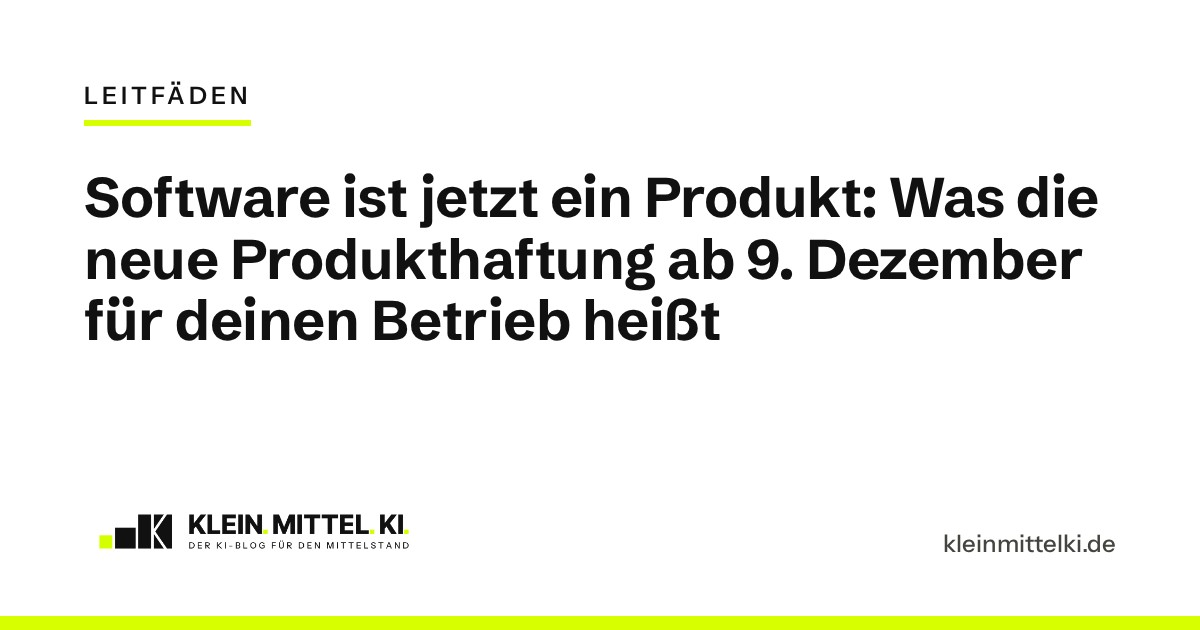
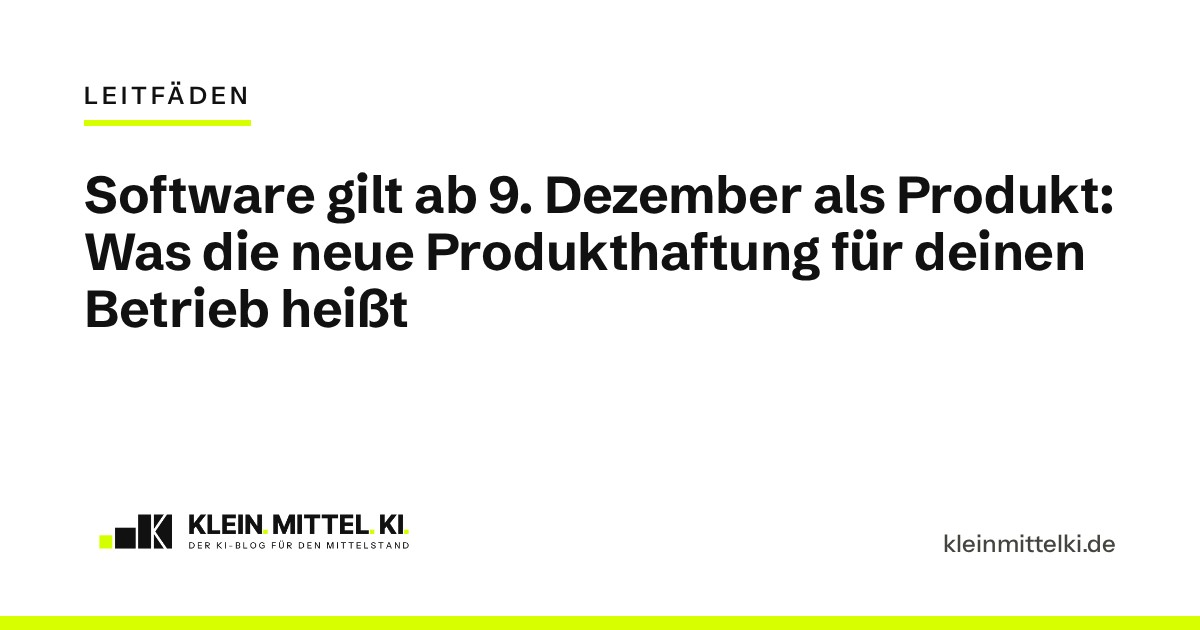
eu-produkthaftung-software-ki: Überarbeitung nach Prüfung Runde 1, neues Vorschaubild
Claude-Session: https://claude.ai/code/session_0145MfsbmvT2a6DtcLU6H3Pk

Changed region(s): [[0.0617, 0.2714, 0.925, 0.5429]]

diff --git a/entwuerfe/eu-produkthaftung-software-ki/beitrag.md b/entwuerfe/eu-produkthaftung-software-ki/beitrag.md
@@ -1,53 +1,44 @@
 ---
-titel: "Software ist jetzt ein Produkt: Was die neue Produkthaftung ab 9. Dezember für deinen Betrieb heißt"
+titel: "Software gilt ab 9. Dezember als Produkt: Was die neue Produkthaftung für deinen Betrieb heißt"
 slug: eu-produkthaftung-software-ki
 kategorie: Leitfäden
 tags: [#wissen]
-teaser: Ab 9. Dezember haften Hersteller auch für fehlerhafte Software, Updates und KI-Funktionen. Wen das trifft und was du jetzt prüfen kannst.
+teaser: Hersteller haften künftig auch für fehlerhafte Software, Updates und KI-Funktionen. Wen das trifft und was du vor dem Stichtag prüfen kannst.
 vorschaubild: vorschaubild.png
 titelbild: titel-eu-produkthaftung-software-ki.jpg
 ---
 
-INTERN – vor Veröffentlichung entfernen: Till hat zu diesem Thema keine Einschätzung geliefert. Alles Folgende ist Vorschlag der Redaktion, bitte ersetzen oder freigeben: (1) Die Einstiegsszene (Maschinenbauer mit 60 Leuten, KI-Kamera, Fernwartungs-Update) ist ein ausgedachtes Beispiel, kein echter Fall; sie wird im Abschnitt zu Updates wieder aufgegriffen („Für den Maschinenbauer aus dem Einstieg …“). (2) Die vier Fälle unter „Wer betroffen ist“ (Maschinenbauer, Elektrobetrieb mit App, Softwarehaus, Betrieb mit eingebautem KI-Modell) sind Beispiele der Redaktion. (3) Auslegungen der Redaktion, die so nicht wörtlich im Gesetz stehen: „Eher nicht betroffen ist nach dem Wortlaut, wer …“ (abgeleitet aus § 3), „Für ein Softwarehaus mit reiner Bürosoftware … ist das Risiko … kleiner“ (abgeleitet aus § 1), der Grenzfall „großes Update an Altprodukt“ (Erwägungsgrund 40, § 23 schweigt) und der Hinweis zu Eigenentwicklungen (§ 6 Abs. 3). (4) Die Checkliste ist aus dem Gesetzestext zusammengestellt, keine Rechtsberatung. (5) Ich-Form, komplett Vorschlag: der Absatz ab „Ich lese das Gesetz weniger als neue Pflicht …“ in „Was das für den Mittelstand bedeutet“. Quellenstand 20.11.2026: Gesetz verkündet (BGBl. 2026 I Nr. 321 vom 27.10.2026), Richtlinie vollständig im amtlichen Text gelesen; Kanzlei- und IHK-Texte nur als Wegweiser, nicht zitiert. Länge rund 1.980 Wörter, am oberen Rand des Langtext-Rahmens (1.900–2.000); falls zu lang (deine Rückmeldung vom 25.10.: „generell viel zu lange“), lassen sich „Wenn es vor Gericht geht“ und die vier Fallbeispiele kürzen. Zwei Grafiken statt vier bis fünf.
+INTERN – vor Veröffentlichung entfernen: Überarbeitet nach Prüfung Runde 1. Till hat zu diesem Thema keine Einschätzung geliefert. Alles Folgende ist Vorschlag der Redaktion, bitte ersetzen oder freigeben: (1) Die Einstiegsszene (Maschinenbauer mit 60 Leuten, KI-Kamera, Fernwartungs-Update) ist ausgedacht, kein echter Fall. Sie wird im Abschnitt zu Updates wieder aufgegriffen; Softwarehaus mit Bürosoftware bzw. Cloud-Angebot sind ebenfalls Beispiele der Redaktion. Die vier ausführlichen Fallbeispiele sind auf Wunsch des Prüfers gestrichen, geblieben ist das Motor-Bild. (2) Auslegungen der Redaktion, die so nicht wörtlich im Gesetz stehen: „Wer gekaufte Standard-Software … nur im eigenen Betrieb nutzt, ist nach dem Wortlaut von § 3 nicht Hersteller“ (auch Punkt 2 der 30-Sekunden-Box und letzte Zeile der Karte); „Für ein Softwarehaus mit reiner Bürosoftware … ist das Risiko … kleiner“ (abgeleitet aus § 1); der Grenzfall „großes Update an Altprodukt“ (Erwägungsgrund 40, § 23 schweigt); Eigenentwicklungen (§ 6 Abs. 3, in der Karte); „etwa ein eingebautes KI-Modell“ als Komponente (§ 4 Abs. 2 nennt nicht körperliche Gegenstände, KI-Systeme sind laut Erwägungsgrund 13 Software); „Hätte er ein Sicherheitsupdate bereitgestellt und der Kunde es nicht eingespielt, läge das … außerhalb seiner Kontrolle“ (abgeleitet aus Erwägungsgrund 51; Erwägungsgründe erläutern die Richtlinie, sie sind kein Gesetzestext). (3) Die Checkliste ist aus dem Gesetzestext zusammengestellt, keine Rechtsberatung. (4) Ich-Form, komplett Vorschlag: der Absatz ab „Für mich passt das Gesetz die Haftung an die Wirklichkeit an …“. Bewusst nicht mit der Formel „Ich lese … weniger als …, sondern als …“, die schon im OLG-Hamm-Beitrag steht; bitte trotzdem in deinen Worten prüfen. (5) Nur zwei Grafiken statt drei bis fünf beim Langtext: Das folgt dem Muster „Leitfaden Rechtslage“ (zwei Karten, Vorbild AI-Act-Beitrag) und deinem Kürzungswunsch vom 25.10. („generell viel zu lange“). Bitte entscheiden, ob das so passt; weitere Grafiken sind nicht gebaut. Quellenstand 20.11.2026: Gesetz verkündet (BGBl. 2026 I Nr. 321 vom 27.10.2026), Richtlinie und KMU-Empfehlung 2003/361/EG im amtlichen Text gelesen; Kanzlei- und IHK-Texte nur als Wegweiser, nicht zitiert. Länge: rund 1.400 Wörter Fließtext (vorher rund 1.880) plus 30-Sekunden-Box und Karte. Titel geändert, deshalb muss das Vorschaubild neu gerendert werden.
 
 Stell dir einen Maschinenbauer mit 60 Leuten vor, der Verpackungsmaschinen für Lebensmittelbetriebe baut. Die Steuerung ist eigene Software. Eine Kamera mit KI-Bilderkennung stoppt die Maschine, sobald eine Hand in den Gefahrenbereich greift. Updates spielt der Betrieb per Fernwartung auf. Im Frühjahr 2027 liefert er eine neue Maschine aus. Ein halbes Jahr später bringt ein Update einen Fehler in die Erkennung, und eine Mitarbeiterin des Kunden verletzt sich. Wer haftet, und wofür genau?
 
-Ab dem 9. Dezember 2026 gibt es darauf eine neue Antwort. Dann gilt in Deutschland ein neues Produkthaftungsgesetz. Es setzt eine EU-Richtlinie um und nennt Software erstmals ausdrücklich als Produkt. Das Gesetz ist beschlossen und im Bundesgesetzblatt verkündet. Dieser Beitrag erklärt, was sich ändert, wen es trifft und was eine Geschäftsführung jetzt prüfen kann.
+Ab dem 9. Dezember 2026 gibt es darauf eine neue Antwort. Dann gilt in Deutschland ein neues Produkthaftungsgesetz, das Software erstmals ausdrücklich als Produkt nennt. Was ändert sich, wen trifft es, und was sollte eine Geschäftsführung jetzt prüfen?
 
 ```html
-<div class="kmk-kurz" style="border:2px solid #111;border-left:10px solid #D7FF00;padding:18px 22px;margin:28px 0;background:#fff;color:#111"><p style="margin:0 0 12px;font-weight:700;font-size:13px;letter-spacing:3px;text-transform:uppercase;line-height:1.3">Das Wichtigste in 30 Sekunden</p><ul style="margin:0;padding-left:20px;display:grid;gap:8px;line-height:1.5"><li style="margin:0">Ab dem 9. Dezember 2026 ist Software ausdrücklich ein Produkt, egal ob sie auf dem Gerät läuft, als App kommt oder aus der Cloud. KI-Systeme zählen dazu.</li><li style="margin:0">Betroffen sind vor allem Betriebe, die Software entwickeln, in eigene Produkte einbauen oder unter eigenem Namen anbieten. Wer Standard-Software nur nutzt, ist nach dem Wortlaut nicht Hersteller.</li><li style="margin:0">Die Verantwortung endet nicht mit der Auslieferung: Solange du Updates liefern kannst, zählen fehlerhafte Updates und fehlende Sicherheitsupdates mit.</li><li style="margin:0">Für Produkte, die bis einschließlich 8. Dezember 2026 in Verkehr gebracht wurden, gilt das alte Gesetz weiter.</li><li style="margin:0">Jetzt sinnvoll: Produkte mit Software auflisten, Update-Wege klären, Verträge mit Zulieferern und die Versicherung prüfen lassen.</li></ul></div>
+<div class="kmk-kurz" style="border:2px solid #111;border-left:10px solid #D7FF00;padding:18px 22px;margin:28px 0;background:#fff;color:#111"><p style="margin:0 0 12px;font-weight:700;font-size:13px;letter-spacing:3px;text-transform:uppercase;line-height:1.3">Das Wichtigste in 30 Sekunden</p><ul style="margin:0;padding-left:20px;display:grid;gap:8px;line-height:1.5"><li style="margin:0">Ab dem 9. Dezember 2026 gilt Software ausdrücklich als Produkt, egal ob sie auf dem Gerät läuft, als App kommt oder aus der Cloud. KI-Systeme zählen dazu.</li><li style="margin:0">Betroffen sind vor allem Betriebe, die Software entwickeln, in eigene Produkte einbauen oder unter eigenem Namen anbieten. Wer Standard-Software nur nutzt, ist nach dem Wortlaut nicht Hersteller.</li><li style="margin:0">Die Verantwortung endet nicht mit der Auslieferung: Solange du Updates liefern kannst, zählen fehlerhafte Updates und fehlende Sicherheitsupdates mit.</li><li style="margin:0">Für Produkte, die bis einschließlich 8. Dezember 2026 in Verkehr gebracht wurden, gilt das alte Gesetz weiter.</li><li style="margin:0">Jetzt sinnvoll: Produkte mit Software auflisten, Update-Wege klären, Verträge mit Zulieferern und die Versicherung prüfen lassen.</li></ul></div>
 ```
 
 ## Was sich am 9. Dezember ändert
 
-Grundlage ist die [EU-Richtlinie 2024/2853](https://eur-lex.europa.eu/eli/dir/2024/2853/oj/deu) über die Haftung für fehlerhafte Produkte vom 23. Oktober 2024. Die Mitgliedstaaten mussten sie bis zum 9. Dezember 2026 umsetzen (Art. 22). Deutschland hat das mit dem [Gesetz zur Modernisierung des Produkthaftungsrechts](https://www.recht.bund.de/eli/bund/bgbl-1/2026/321) getan. Der Bundestag hat es am 8. Oktober 2026 beschlossen, der Bundesrat hat am 16. Oktober darauf verzichtet, den Vermittlungsausschuss anzurufen. Verkündet wurde es am 27. Oktober 2026 im Bundesgesetzblatt (BGBl. 2026 I Nr. 321). Das neue Produkthaftungsgesetz tritt am 9. Dezember 2026 in Kraft, das alte von 1989 am selben Tag außer Kraft.
+Grundlage ist die [EU-Richtlinie 2024/2853](https://eur-lex.europa.eu/eli/dir/2024/2853/oj/deu) über die Haftung für fehlerhafte Produkte vom 23. Oktober 2024. Deutschland setzt sie mit dem [Gesetz zur Modernisierung des Produkthaftungsrechts](https://www.recht.bund.de/eli/bund/bgbl-1/2026/321) um, verkündet am 27. Oktober 2026 (BGBl. 2026 I Nr. 321), in Kraft ab 9. Dezember 2026. Es löst das Produkthaftungsgesetz von 1989 ab (BGBl. 1989 I S. 2198).
 
-Produkthaftung heißt: Der Hersteller haftet für Schäden durch ein fehlerhaftes Produkt, ohne dass ihm ein Verschulden nachgewiesen werden muss. Die Richtlinie nennt das verschuldensunabhängige Haftung (Erwägungsgrund 6). Fehlerhaft ist ein Produkt, wenn es nicht die Sicherheit bietet, die vorgeschrieben ist oder die man erwarten darf (§ 7). Drei Änderungen sind für Betriebe mit Software besonders wichtig.
+Produkthaftung heißt: Der Hersteller haftet für Schäden durch ein fehlerhaftes Produkt, ohne dass ihm ein Verschulden nachgewiesen werden muss (Erwägungsgrund 6 der Richtlinie). Fehlerhaft ist ein Produkt, wenn es nicht die Sicherheit bietet, die vorgeschrieben ist oder die man erwarten darf (§ 7).
 
-**Software ist ein Produkt.** Das alte Gesetz sprach von beweglichen Sachen und Elektrizität. Das neue nennt Software ausdrücklich (§ 2 Abs. 1 Nr. 3). Laut Richtlinie gilt das unabhängig davon, ob die Software auf einem Gerät gespeichert ist, aus der Cloud abgerufen oder als Software-as-a-Service bereitgestellt wird. Als Beispiele nennt sie Betriebssysteme, Firmware, Anwendungen und KI-Systeme (Erwägungsgrund 13). Das Wort „KI“ selbst steht im deutschen Gesetz nicht.
+**Software ist ein Produkt.** Das alte Gesetz sprach von beweglichen Sachen und Elektrizität, das neue nennt Software ausdrücklich (§ 2 Abs. 1 Nr. 3). Laut Richtlinie gilt das unabhängig davon, ob die Software auf einem Gerät läuft, aus der Cloud kommt oder als Software-as-a-Service gemietet wird. Als Beispiele nennt sie Betriebssysteme, Firmware, Anwendungen und KI-Systeme (Erwägungsgrund 13). Das Wort „KI“ steht im deutschen Gesetz nicht. Es berücksichtigt aber ausdrücklich, dass ein Produkt nach der Auslieferung weiterlernen oder neue Funktionen erwerben kann (§ 7 Nr. 3).
 
-**Lernende Systeme zählen mit.** Bei der Frage, ob ein Produkt fehlerhaft ist, wird ausdrücklich berücksichtigt, dass es nach der Auslieferung weiterlernen oder neue Funktionen erwerben kann (§ 7 Nr. 3). Auch Anforderungen an die Cybersicherheit gehören zur Sicherheit (§ 7 Nr. 5).
+**Keine Obergrenze, keine Selbstbeteiligung mehr.** Bisher haftete ein Hersteller für Personenschäden durch ein Produkt oder gleiche Produkte mit demselben Fehler insgesamt nur bis 85 Millionen Euro. Bei Sachschäden trug der Geschädigte die ersten 500 Euro selbst (§§ 10 und 11 des alten Gesetzes). Beides fehlt im neuen Gesetz. Die Richtlinie schließt finanzielle Obergrenzen ausdrücklich aus (Erwägungsgrund 56).
 
-**Keine Obergrenze, keine Selbstbeteiligung mehr.** Bisher war die Haftung für Personenschäden auf 85 Millionen Euro begrenzt, und bei Sachschäden trug der Geschädigte die ersten 500 Euro selbst (§§ 10 und 11 des alten Gesetzes). Beides fehlt im neuen Gesetz. Die Richtlinie schließt finanzielle Obergrenzen ausdrücklich aus (Erwägungsgrund 56).
-
-Ausgenommen ist freie und Open-Source-Software, die außerhalb einer Geschäftstätigkeit entwickelt oder bereitgestellt wird (§ 2 Abs. 1 Nr. 3). Die Ausnahme schützt die Entwickler solcher Software, nicht den Betrieb, der sie einbaut. Wer eine solche Bibliothek in sein Produkt integriert, haftet für sein Produkt selbst (§ 4 Abs. 1, Erwägungsgrund 15).
+**Open Source nur zum Teil ausgenommen.** Freie und Open-Source-Software, die außerhalb einer Geschäftstätigkeit entwickelt oder bereitgestellt wird, ist ausgenommen (§ 2 Abs. 1 Nr. 3). Wer sie in sein Produkt einbaut, haftet trotzdem für sein Produkt (§ 4 Abs. 1, Erwägungsgrund 15).
 
 ## Wer betroffen ist und wer eher nicht
 
-Haften muss in erster Linie der **Hersteller**: wer ein Produkt selbst entwickelt oder herstellt, es entwerfen oder herstellen lässt oder seinen Namen oder seine Marke daraufsetzt (§ 3). Dazu kommen die Hersteller von Komponenten. Baut ein Betrieb eine fremde Komponente ein und verursacht diese den Fehler, haften beide (§ 4 Abs. 1), und zwar als Gesamtschuldner (§ 15). Komponente kann auch Software sein oder ein digitaler Dienst, ohne den das Produkt eine Funktion nicht ausführen kann (§ 4 Abs. 2). Sitzt der Hersteller außerhalb der EU, haften Importeur und Beauftragter wie der Hersteller (§ 10).
+Haften muss in erster Linie der **Hersteller**: wer ein Produkt selbst entwickelt oder herstellt, es entwerfen oder herstellen lässt oder seinen Namen oder seine Marke daraufsetzt (§ 3). Baut ein Betrieb eine fremde Komponente ein und verursacht diese den Fehler, haften beide (§ 4 Abs. 1), und zwar als Gesamtschuldner (§ 15). Komponente kann auch Software sein, etwa ein eingebautes KI-Modell, oder ein digitaler Dienst, ohne den das Produkt eine Funktion nicht ausführen kann (§ 4 Abs. 2). Im Bild aus dem Beitrag [ChatGPT ist nicht das KI-Modell](https://www.kleinmittelki.de/chatgpt-claude-gemini-ki-modelle-erklaert/): Wer einen fremden Motor in sein Fahrzeug baut, steht gegenüber Geschädigten für das ganze Fahrzeug ein.
 
-Was das im Mittelstand heißen kann, zeigen vier typische Fälle:
+Das Gesetz schützt **natürliche Personen**. Ersetzt werden Schäden an Leben, Körper und Gesundheit, an Sachen und an Daten, außer an Sachen, die ausschließlich beruflich genutzt werden, und an Daten, die beruflich genutzt werden (§ 1 Abs. 1). Für ein Softwarehaus mit reiner Bürosoftware für Firmenkunden ist das Risiko aus diesem Gesetz deshalb kleiner als für einen Maschinenbauer. Verletzt sich aber ein Mensch, zählt das immer, auch wenn er bei einem Firmenkunden arbeitet. Die Haftung aus Verträgen bleibt ohnehin bestehen (§ 21 Abs. 2).
 
-- **Maschinen- und Anlagenbauer** mit eigener Steuerungssoftware, Fernwartung oder Bedien-App. Hier liegt das Thema am nächsten, weil ein Fehler Menschen verletzen kann.
-- **Ein Elektrobetrieb mit 25 Leuten**, der für seine Kunden eine eigene App zur Steuerung von Heizung und Rollläden programmiert hat. Die App ist ein Produkt, der Betrieb ihr Hersteller.
-- **Ein Softwarehaus mit 10 bis 50 Beschäftigten**, das Anwendungen unter eigenem Namen verkauft oder als Cloud-Dienst vermietet.
-- **Ein Betrieb, der ein KI-Modell eines großen Anbieters in sein eigenes Produkt einbaut**, etwa als Funktion einer Maschine oder einer Kunden-App. Das Modell ist dann eine Komponente. Im Bild aus dem Beitrag [ChatGPT ist nicht das KI-Modell](https://www.kleinmittelki.de/chatgpt-claude-gemini-ki-modelle-erklaert/): Wer einen fremden Motor in sein Fahrzeug baut, steht gegenüber Geschädigten für das ganze Fahrzeug ein.
+**Eher nicht betroffen** ist, wer gekaufte Standard-Software oder einen KI-Dienst wie Microsoft 365 oder ChatGPT nur im eigenen Betrieb nutzt: Nach dem Wortlaut von § 3 ist er nicht Hersteller. Die Ausnahmen, etwa eine wesentliche Veränderung oder eine Eigenentwicklung, zeigt die Übersicht.
 
-Wichtig für die Einordnung: Das Gesetz schützt **natürliche Personen**. Ersetzt werden Schäden an Leben, Körper und Gesundheit, an Sachen und an Daten, außer an Sachen, die ausschließlich beruflich genutzt werden, und an Daten, die beruflich genutzt werden (§ 1 Abs. 1). Für ein Softwarehaus mit reiner Bürosoftware für Firmenkunden ist das Risiko aus diesem Gesetz deshalb kleiner als für einen Maschinenbauer. Verletzt sich aber ein Mensch, zählt das immer, auch wenn er bei einem Firmenkunden arbeitet. Die Haftung aus Verträgen bleibt ohnehin bestehen (§ 21 Abs. 2).
-
-**Eher nicht betroffen** ist nach dem Wortlaut, wer gekaufte Standard-Software oder einen KI-Dienst nur im eigenen Betrieb nutzt, etwa Microsoft 365 oder ChatGPT im Büro. Wer nichts entwickelt und nichts herstellen lässt, ist nach § 3 nicht Hersteller. Zwei Ausnahmen solltest du kennen. Wer ein Produkt ohne Einverständnis des Herstellers wesentlich verändert und es dann weitergibt oder in Betrieb nimmt, wird selbst Hersteller des veränderten Produkts (§ 5). Und eigene Entwicklungen, die nur im Betrieb laufen, sind nicht automatisch außen vor: Das Gesetz kennt auch die „Inbetriebnahme“ eines Produkts, das nie verkauft oder weitergegeben wurde (§ 6 Abs. 3). Wann das greift, ist eine Frage für deine Anwältin oder deinen Anwalt.
-
-Für falsche Auskünfte eines Website-Chatbots gibt es schon andere Haftungswege. Das OLG Hamm hat sie im Mai 2026 als irreführende geschäftliche Handlung gewertet, siehe [Wenn der Chatbot sich irrt, haftet der Betrieb](https://www.kleinmittelki.de/olg-hamm-chatbot-haftung/). Die Richtlinie stellt dazu klar, dass Informationen als solche kein Produkt sind (Erwägungsgrund 13). Und die Pflichten aus dem AI Act gelten unabhängig davon weiter, siehe [Muss ich KI-Bilder jetzt kennzeichnen?](https://www.kleinmittelki.de/ai-act-ki-bilder-kennzeichnen/)
+Für falsche Auskünfte eines Website-Chatbots gibt es schon andere Haftungswege, wie das [Urteil des OLG Hamm](https://www.kleinmittelki.de/olg-hamm-chatbot-haftung/) zeigt, und die Pflichten aus dem [AI Act](https://www.kleinmittelki.de/ai-act-ki-bilder-kennzeichnen/) gelten unabhängig davon weiter.
 
 ```html
 <style>.kmk-check__list{margin:18px 0 12px;border-top:1px solid rgba(17,17,17,.14)}.kmk-check__row{display:grid;grid-template-columns:1fr auto;gap:8px 24px;align-items:center;padding:14px 0;border-bottom:1px solid rgba(17,17,17,.14)}.kmk-check__case{margin:0!important;font-size:15.5px!important;line-height:1.35;font-weight:600}.kmk-check__note{display:block;font-weight:400;font-size:13.5px;line-height:1.4;color:var(--c-muted,#5c5c56);margin-top:3px}.kmk-check__badge{font-weight:600;font-size:11px;line-height:1;letter-spacing:.12em;text-transform:uppercase;padding:8px 11px;white-space:nowrap;justify-self:end}.kmk-check__badge--no{background:#E8E7E1;color:#45453F}.kmk-check__badge--check{background:#fff;color:#111;box-shadow:inset 0 0 0 1.5px #111}.kmk-check__badge--yes{background:#111;color:var(--c-accent,#D7FF00)}@media(max-width:640px){.kmk-check__row{grid-template-columns:1fr}.kmk-check__badge{justify-self:start}}</style>
@@ -58,49 +49,38 @@ Für falsche Auskünfte eines Website-Chatbots gibt es schon andere Haftungswege
 
 Grundsätzlich kommt es darauf an, wie ein Produkt war, als es in Verkehr gebracht wurde (§ 8 Abs. 1). Bei Software reicht die Verantwortung weiter. Solange ein Hersteller Updates selbst liefern oder durch Dritte liefern lassen kann, behält er die **Kontrolle** über das Produkt (§ 8 Abs. 2). Maßgeblich ist dann der Zeitpunkt, an dem das Produkt seine Kontrolle verlassen hat.
 
-Die Folge steht in § 9 Abs. 2. Der Hersteller kann sich nicht damit entlasten, der Fehler sei bei der Auslieferung noch nicht da gewesen, wenn der Fehler zurückgeht auf
+Deshalb kann er sich nicht damit entlasten, der Fehler sei bei der Auslieferung noch nicht da gewesen, wenn der Fehler auf die Software oder ein Update, einen verbundenen digitalen Dienst, fehlende Sicherheitsupdates oder eine wesentliche Änderung zurückgeht (§ 9 Abs. 2).
 
-- die Software selbst, einschließlich Updates und Upgrades,
-- einen verbundenen digitalen Dienst,
-- fehlende Software-Updates, die zur Aufrechterhaltung der Sicherheit erforderlich sind, oder
-- eine wesentliche Änderung des Produkts.
-
-Zwei Grenzen nennt die Richtlinie selbst. Sie verpflichtet nicht dazu, überhaupt Updates anzubieten. Und installiert der Eigentümer ein bereitgestelltes Sicherheitsupdate nicht, liegt das außerhalb der Kontrolle des Herstellers (Erwägungsgrund 51). Ein Produkt ist auch nicht schon deshalb fehlerhaft, weil es inzwischen ein besseres Update gibt (§ 8 Abs. 3).
-
-Für den Maschinenbauer aus dem Einstieg heißt das: Das fehlerhafte Fernwartungs-Update fällt in seine Verantwortung, auch wenn die Maschine bei der Auslieferung einwandfrei war. Hätte er ein Sicherheitsupdate bereitgestellt und der Kunde es nicht eingespielt, sähe es anders aus. Genau deshalb lohnt es sich festzuhalten, welches Update wann an wen ging.
+Für den Maschinenbauer aus dem Einstieg heißt das: Das fehlerhafte Fernwartungs-Update fällt in seine Verantwortung, auch wenn die Maschine bei der Auslieferung einwandfrei war. Hätte er ein Sicherheitsupdate bereitgestellt und der Kunde es nicht eingespielt, läge das nach der Richtlinie außerhalb seiner Kontrolle (Erwägungsgrund 51). Eine Pflicht, überhaupt Updates anzubieten, sieht sie dort ausdrücklich nicht vor.
 
 ## Was für Produkte gilt, die schon verkauft sind
 
-Für alles, was bis einschließlich 8. Dezember 2026 in Verkehr gebracht oder in Betrieb genommen wurde, gilt das alte Produkthaftungsgesetz weiter (§ 23). Die Maschine, die im Sommer 2026 ausgeliefert wurde, fällt also unter altes Recht.
+Für alles, was bis einschließlich 8. Dezember 2026 in Verkehr gebracht oder in Betrieb genommen wurde, gilt das alte Gesetz weiter (§ 23).
 
-![Schaubild: Zeitstrahl von der EU-Richtlinie am 23.10.2024 bis zum Inkrafttreten des neuen Produkthaftungsgesetzes am 9.12.2026, darunter die Regel: bis einschließlich 8.12.2026 in Verkehr gebracht gilt das alte Gesetz von 1989, ab 9.12.2026 das neue](kmk-produkthaftung-g1.png "Entscheidend ist, wann ein Produkt in Verkehr gebracht wurde: Bis einschließlich 8. Dezember 2026 gilt das alte Gesetz weiter.")
+![Schaubild: Zeitstrahl von der EU-Richtlinie am 23.10.2024 bis zum Inkrafttreten des neuen Produkthaftungsgesetzes am 9.12.2026, darunter die Regel: bis einschließlich 8.12.2026 in Verkehr gebracht gilt das alte Gesetz von 1989, ab 9.12.2026 das neue](kmk-produkthaftung-g1.png "Der Stichtag ist klar geregelt. Offen bleibt, ob ein großes Update ein Altprodukt ins neue Recht holt.")
 
-Offen ist ein Grenzfall: das große Update nach dem Stichtag. Laut Richtlinie gilt ein wesentlich verändertes Produkt als zum Zeitpunkt der Änderung neu bereitgestellt. Das kann durch ein Software-Update geschehen oder durch das Weiterlernen eines KI-Systems (Erwägungsgrund 40). Ob ein solches Update ein Altprodukt ins neue Recht holt, regelt § 23 nicht ausdrücklich. Wer im kommenden Jahr größere Funktions-Updates für ausgelieferte Produkte plant, sollte diese Frage vorher klären lassen.
+Offen ist ein Grenzfall: das große Update nach dem Stichtag. Laut Richtlinie gilt ein wesentlich verändertes Produkt als zum Zeitpunkt der Änderung neu bereitgestellt, auch wenn die Änderung durch ein Software-Update oder das Weiterlernen eines KI-Systems entsteht (Erwägungsgrund 40). Ob das ein Altprodukt ins neue Recht holt, regelt § 23 nicht ausdrücklich. Wer größere Funktions-Updates für ausgelieferte Produkte plant, sollte das vorher klären lassen.
 
 ## Wenn es vor Gericht geht
 
-Bei Software ist es für Geschädigte oft schwer zu beweisen, was schiefgelaufen ist. Das Gesetz gleicht das aus. Macht die geschädigte Person ihren Anspruch plausibel, ordnet das Gericht auf ihren Antrag an, dass der Hersteller relevante Beweismittel offenlegt, mit Schutz für Geschäftsgeheimnisse (§ 19). Legt er sie trotz Anordnung nicht offen, wird der Fehler vermutet. Vermutet wird er auch bei einer offensichtlichen Funktionsstörung im normalen Gebrauch (§ 20 Abs. 1). Ist ein Fall technisch so komplex, dass der Beweis übermäßig schwierig ist, kann es reichen, dass der Fehler wahrscheinlich ist (§ 20 Abs. 3).
-
-Für einen Betrieb heißt das: Unterlagen über Entwicklung, Tests und Updates sind nicht nur Ordnung. Im Streitfall sind sie das wichtigste Werkzeug.
-
-Zu den Fristen: Ansprüche verjähren in drei Jahren, gerechnet ab dem Zeitpunkt, an dem der Geschädigte von Fehler, Schaden und Hersteller weiß oder hätte wissen müssen (§ 16). Sie erlöschen spätestens zehn Jahre nach dem Inverkehrbringen, bei wesentlich veränderten Produkten zehn Jahre nach der Änderung (§ 17). Bei Gesundheitsschäden, die erst spät erkennbar werden, sind es 25 Jahre.
+Macht die geschädigte Person ihren Anspruch plausibel, ordnet das Gericht auf ihren Antrag an, dass der Hersteller relevante Beweismittel offenlegt, mit Schutz für Geschäftsgeheimnisse (§ 19). Legt er sie trotz Anordnung nicht offen, liegt eine offensichtliche Funktionsstörung vor oder ist der Fall technisch so komplex, dass der Beweis übermäßig schwierig ist, wird der Fehler unter bestimmten Voraussetzungen vermutet (§ 20). Ansprüche verjähren in drei Jahren, nachdem die geschädigte Person von Fehler, Schaden und Hersteller weiß oder hätte wissen müssen (§ 16), und erlöschen grundsätzlich zehn Jahre nach dem Inverkehrbringen oder einer wesentlichen Änderung (§ 17).
 
 ## Was du jetzt prüfen kannst
 
-Eine Liste für die Geschäftsführung, am besten zusammen mit der Technikleitung. Sie ersetzt keine Rechtsberatung, bereitet aber das Gespräch mit Anwalt und Versicherer vor.
+Eine Liste für die Geschäftsführung, am besten zusammen mit der Technikleitung. Sie bereitet das Gespräch mit Anwalt und Versicherer vor.
 
-1. **Produktliste mit Software.** Welche eurer Produkte enthalten Software, Firmware, eine App, einen Cloud-Dienst oder eine KI-Funktion? Wer hat sie entwickelt: ihr selbst, ein Zulieferer, ein Anbieter außerhalb der EU?
-2. **Stichtag festhalten.** Welche Produkte bringt ihr bis einschließlich 8. Dezember 2026 in Verkehr, welche danach? Ist das Auslieferungsdatum für jedes Gerät dokumentiert?
-3. **Update-Wege klären.** Wer kann Updates aufspielen? Wie erfahren Kunden von Sicherheitsupdates? Wird festgehalten, wann welches Update bereitgestellt wurde?
-4. **Verträge mit Zulieferern.** Ihr haftet gegenüber Geschädigten auch für fremde Komponenten. Wie ist der Rückgriff auf Zulieferer von Software und KI-Funktionen geregelt? Gegenüber Geschädigten lässt sich die Haftung vertraglich nicht ausschließen (§ 18). Die Richtlinie erlaubt aber, dass ein Hersteller mit einem kleinen Softwarezulieferer vereinbart, auf den Rückgriff zu verzichten (Art. 12 Abs. 2). Liefert dein Betrieb selbst Software zu, ist das ein Punkt für die nächste Vertragsverhandlung.
-5. **Versicherung prüfen lassen.** Deckt eure Betriebs- oder Produkthaftpflicht Schäden durch Software, Updates und Cloud-Dienste? Diese Frage gehört an den Versicherer oder Makler.
-6. **Unterlagen ablegen.** Entwicklung, Tests, Risikobewertung und Update-Historie so aufbewahren, dass ihr sie zehn Jahre später noch vorlegen könnt.
+1. **Produktliste mit Software.** Welche deiner Produkte enthalten Software, Firmware, eine App, einen Cloud-Dienst oder eine KI-Funktion? Wer hat sie entwickelt: dein Betrieb, ein Zulieferer, ein Anbieter außerhalb der EU?
+2. **Auslieferungsdaten festhalten.** Ist für jedes Produkt dokumentiert, wann es in Verkehr gebracht wurde? Davon hängt ab, welches Gesetz gilt.
+3. **Update-Wege klären.** Wer kann Updates aufspielen? Wie erfahren deine Kunden von Sicherheitsupdates? Wird festgehalten, wann welches Update bereitgestellt wurde?
+4. **Verträge mit Zulieferern.** Dein Betrieb haftet gegenüber Geschädigten auch für fremde Komponenten, und das lässt sich vertraglich nicht ausschließen (§ 18). Wie ist der Rückgriff auf Zulieferer von Software und KI-Funktionen geregelt? Die Richtlinie sieht ausdrücklich vor, dass ein Hersteller mit einem Softwarezulieferer, der ein Kleinst- oder Kleinunternehmen ist (nach EU-Definition weniger als 50 Beschäftigte und höchstens 10 Millionen Euro Jahresumsatz oder Jahresbilanz, Partner- und verbundene Unternehmen mitgerechnet), vereinbaren kann, auf den Rückgriff zu verzichten (Art. 12 Abs. 2). Das ist eine Regel der Richtlinie, das deutsche Gesetz hat dazu keine eigene Vorschrift.
+5. **Versicherung prüfen lassen.** Deckt deine Betriebs- oder Produkthaftpflicht Schäden durch Software, Updates und Cloud-Dienste?
+6. **Unterlagen ablegen.** Im Streitfall sind Unterlagen über Entwicklung, Tests, Risikobewertung und Updates dein wichtigstes Werkzeug. Bewahre sie so auf, dass du sie zehn Jahre später noch vorlegen kannst.
 
 ## Was das für den Mittelstand bedeutet
 
-Für die meisten Betriebe, die Software und KI nur nutzen, ändert dieses Gesetz wenig. Für Betriebe, die Software in ihre Produkte bauen oder selbst Software anbieten, ändert es viel: Die Verantwortung reicht künftig so weit wie der Update-Kanal. Das gilt für den Maschinenbauer mit Fernwartung genauso wie für das Softwarehaus mit Cloud-Angebot oder den Elektrobetrieb mit eigener App.
+Für die meisten Betriebe, die Software und KI nur nutzen, ändert dieses Gesetz wenig. Für Betriebe, die Software in ihre Produkte bauen oder selbst Software anbieten, ändert es viel: Die Verantwortung reicht künftig so weit wie der Update-Kanal. Das gilt für den Maschinenbauer mit Fernwartung genauso wie für das Softwarehaus mit Cloud-Angebot.
 
-Ich lese das Gesetz weniger als neue Pflicht, sondern als Anpassung an die Wirklichkeit. Viele Produkte werden heute nach dem Verkauf weiter verändert. Wer Updates liefern kann, soll auch für sie einstehen. Die gut zwei Wochen bis zum Stichtag reichen nicht für alles. Für eine Produktliste und einen Termin mit dem Versicherer reichen sie.
+Für mich passt das Gesetz die Haftung an die Wirklichkeit an. Viele Produkte werden nach dem Verkauf weiter verändert, und wer Updates liefern kann, soll auch für sie einstehen. Die gut zwei Wochen bis zum Stichtag reichen nicht für alles. Für eine Produktliste und einen Termin mit dem Versicherer reichen sie.
 
 Dieser Beitrag ersetzt keine Rechtsberatung. Was für deine Produkte konkret gilt, klärst du mit deiner Anwältin oder deinem Anwalt und deinem Versicherer.
 
@@ -114,6 +94,7 @@ Abgerufen am 20.11.2026, zuletzt geprüft am 20.11.2026
 
 - [Gesetz zur Modernisierung des Produkthaftungsrechts und zur Änderung weiterer Vorschriften vom 22.10.2026, BGBl. 2026 I Nr. 321 (verkündet am 27.10.2026)](https://www.recht.bund.de/eli/bund/bgbl-1/2026/321)
 - [Richtlinie (EU) 2024/2853 des Europäischen Parlaments und des Rates vom 23.10.2024 über die Haftung für fehlerhafte Produkte, ABl. L, 2024/2853 (18.11.2024)](https://eur-lex.europa.eu/eli/dir/2024/2853/oj/deu)
+- [Empfehlung der Kommission 2003/361/EG vom 06.05.2003 betreffend die Definition der Kleinstunternehmen sowie der kleinen und mittleren Unternehmen, ABl. L 124 (20.05.2003)](https://eur-lex.europa.eu/legal-content/DE/TXT/?uri=CELEX:32003H0361)
 - [Bundesrat, Drucksache 584/26: Gesetzesbeschluss des Deutschen Bundestages (09.10.2026)](https://dserver.bundestag.de/brd/2026/0584-26.pdf)
 - [Bundesrat, Drucksache 584/26 (Beschluss) vom 16.10.2026](https://dserver.bundestag.de/brd/2026/0584-26B.pdf)
-- [Produkthaftungsgesetz von 1989 in der bis 8.12.2026 geltenden Fassung, §§ 2, 10 und 11 (Bundesministerium der Justiz, gesetze-im-internet.de)](https://www.gesetze-im-internet.de/prodhaftg/)
+- [Produkthaftungsgesetz vom 15.12.1989 (BGBl. 1989 I S. 2198) in der bis 8.12.2026 geltenden Fassung, §§ 2, 10 und 11 (Bundesministerium der Justiz, gesetze-im-internet.de)](https://www.gesetze-im-internet.de/prodhaftg/)

diff --git a/entwuerfe/eu-produkthaftung-software-ki/quellen.md b/entwuerfe/eu-produkthaftung-software-ki/quellen.md
@@ -260,3 +260,34 @@ Artikel 1 = neues Produkthaftungsgesetz (ProdHaftG), wörtlich bzw. eng am Wortl
    ausdrücklich → im Beitrag als offene Auslegungsfrage.
 4. Reine B2B-Bürosoftware: Schäden an beruflich genutzten Daten und Sachen sind nach § 1 nicht erfasst; Personenschäden schon.
    Vertragliche Haftung bleibt unberührt (§ 21 Abs. 2).
+
+---
+
+## Nachtrag 2026-11-20, Runde 2 (Autor): KMU-Schwelle für Art. 12 Abs. 2
+
+- **Empfehlung der Kommission 2003/361/EG vom 6. Mai 2003** betreffend die Definition der Kleinstunternehmen sowie der kleinen
+  und mittleren Unternehmen, ABl. L 124 vom 20.5.2003, S. 36. Amtliches PDF (DE) gelesen über das Amt für Veröffentlichungen:
+  http://publications.europa.eu/resource/celex/32003H0361 (Accept: application/pdf) → cellar 6ca8d655-126b-4a42-ada4-e9058fa45155
+  (abgerufen 20.11.2026). Im Beitrag verlinkt: https://eur-lex.europa.eu/legal-content/DE/TXT/?uri=CELEX:32003H0361
+- Anhang, **Artikel 2 Abs. 2**, wörtlich: „Innerhalb der Kategorie der KMU wird ein kleines Unternehmen als ein Unternehmen definiert,
+  das weniger als 50 Personen beschäftigt und dessen Jahresumsatz bzw. Jahresbilanz 10 Mio. EUR nicht übersteigt.“
+- Anhang, **Artikel 2 Abs. 3**, wörtlich: „… ein Kleinstunternehmen als ein Unternehmen definiert, das weniger als 10 Personen
+  beschäftigt und dessen Jahresumsatz bzw. Jahresbilanz 2 Mio. EUR nicht überschreitet.“
+- Anhang, Art. 2 Abs. 1: KMU insgesamt „weniger als 250 Personen“, Jahresumsatz höchstens 50 Mio. EUR oder Jahresbilanzsumme
+  höchstens 43 Mio. EUR (nur zur Einordnung, im Beitrag nicht verwendet).
+- Anhang, Art. 5: Mitarbeiterzahl = Jahresarbeitseinheiten (JAE). Anhang, Art. 4 Abs. 2: Statuswechsel erst nach Über-/Unterschreiten
+  in zwei aufeinanderfolgenden Geschäftsjahren (nur zur Einordnung).
+- **Richtlinie (EU) 2024/2853, Art. 12 Abs. 2** (siehe Abschnitt C oben): Größe wird beurteilt „zusammen mit gegebenenfalls allen
+  Partnerunternehmen … und verbundenen Unternehmen“, und zwar „zum Zeitpunkt des Inverkehrbringens dieser Softwarekomponente“;
+  zusätzlich muss der Verzicht vertraglich vereinbart sein.
+- Deutsches Gesetz (BGBl. 2026 I Nr. 321): **keine eigene Vorschrift** zum Rückgriffsverzicht; nur § 15 Satz 2 („soweit nichts
+  anderes bestimmt ist“). Im Beitrag: „Regel der Richtlinie, das deutsche Gesetz hat dazu keine eigene Vorschrift.“
+- Hinweisquelle (nicht zitiert): KMU-Definition der EU-Kommission,
+  https://single-market-economy.ec.europa.eu/smes/sme-fundamentals/sme-definition_de (vom Prüfer genannt).
+
+### Altes Gesetz: Fundstelle und Wortlaut § 10 (für die Präzisierung im Beitrag)
+- Fundstelle: Produkthaftungsgesetz vom 15. Dezember 1989 (BGBl. I S. 2198), zuletzt geändert durch Art. 5 des Gesetzes vom
+  17. Juli 2017 (BGBl. I S. 2421) – wörtlich so in § 23 ProdHaftG neu (BGBl. 2026 I Nr. 321) zitiert.
+- § 10 Abs. 1 alt, wörtlich: „Sind Personenschäden durch ein Produkt oder gleiche Produkte mit demselben Fehler verursacht worden,
+  so haftet der Ersatzpflichtige nur bis zu einem Höchstbetrag von 85 Millionen Euro.“ → Gesamt-Höchstbetrag je Serienfehler,
+  nicht je Geschädigtem.
